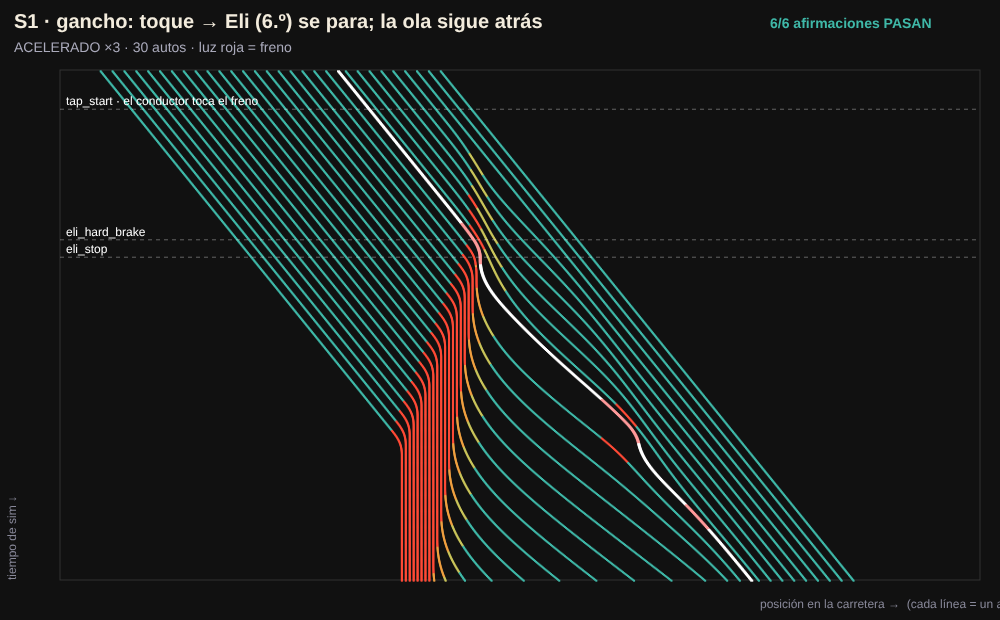
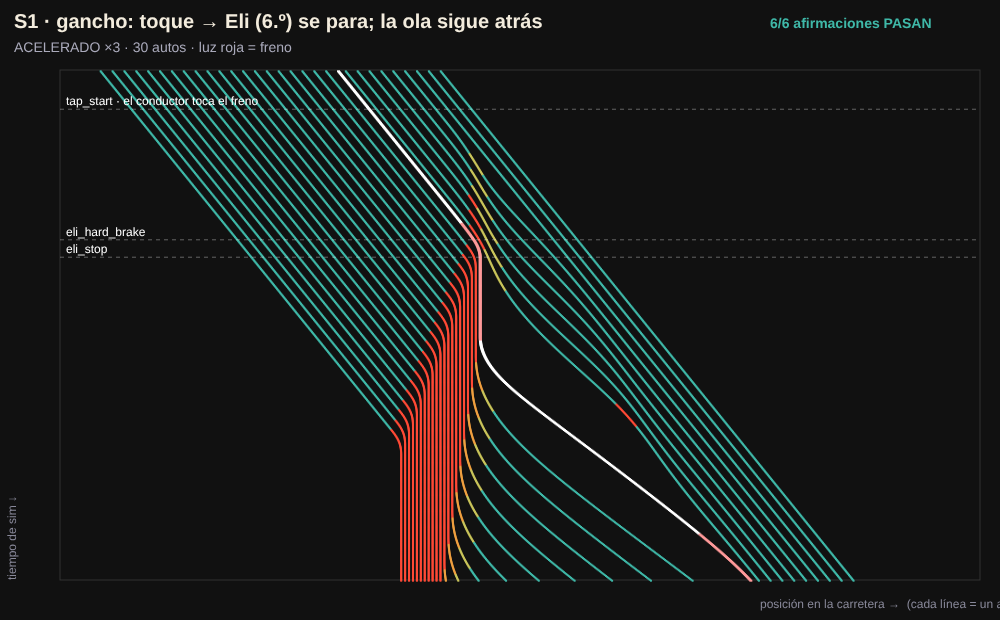
ep001 sim: Eli holds his stop 10 s (stands and yells); previews refreshed
Claude-Session: https://claude.ai/code/session_01Xa8YPWmmU68CUYj3YXfuu9

Changed region(s): [[0.403, 0.429, 0.775, 0.95], [0.558, 0.5823, 0.589, 0.6129]]

diff --git a/newchannel/ep/001/sim/engine.js b/newchannel/ep/001/sim/engine.js
@@ -71,7 +71,7 @@
     const rng = K.rng(p.seed);
     const drv = p.drivers.map(d => Object.assign({}, d));
     const x = Float64Array.from(p.x0), v = Float64Array.from(p.v0init);
-    const acc = new Float64Array(N), noise = new Float64Array(N), panicUntil = new Float64Array(N).fill(-1);
+    const acc = new Float64Array(N), noise = new Float64Array(N), panicUntil = new Float64Array(N).fill(-1), holdUntil = new Float64Array(N).fill(-1);
     // delayed perception: ring buffers of gap and leader speed (per car), sized for the largest tau
     const maxTau = Math.max(0, ...drv.map(d => d.tau || 0), ...p.schedule.map(e => (e.set && e.set.tau) || 0));
     const H = Math.max(1, Math.round(maxTau / dt) + 2);
@@ -139,6 +139,10 @@
           if (d.panicThr) {                                  // over-reaction: once the needed braking passes panicThr, the
             if (panicUntil[i] < t && a < -d.panicThr) panicUntil[i] = t + d.panicHold;   // driver stamps on the brake
             if (panicUntil[i] >= t) a = Math.min(a, -d.panicDecel);                      // for panicHold seconds
+          }
+          if (d.holdAfterStop) {                             // once stopped, stays stopped holdAfterStop seconds
+            if (holdUntil[i] < 0 && v[i] < 0.05 && t > 1) holdUntil[i] = t + d.holdAfterStop;   // (Eli stands up and yells)
+            if (holdUntil[i] > t) a = Math.min(a, -3);
           }
           if (d.noise) {                                     // OU acceleration noise (seeded); tc = correlation time
             const tc = d.noiseTc || 2;

diff --git a/newchannel/ep/001/sim/states.js b/newchannel/ep/001/sim/states.js
@@ -18,8 +18,9 @@
     // road drivers (S1, S3, S4, S11): IDM + 1.0 s reaction time (delayed perception), emergency reflex.
     HUMAN: { kind: 'idm', a: 1.0, b: 2.0, T: 1.0, s0: 2.0, v0: 14, delta: 4, tau: 1.0 },
     // Eli the gap-closer (S1, S19 top): follows at 0.4 s, eager acceleration, and over-reacts: once the braking he
-    // needs passes 0.8 m/s^2 he stamps on the brake at 3 m/s^2 for 2.5 s.
-    ELI_CLOSER: { kind: 'idm', a: 2.0, b: 2.0, T: 0.4, s0: 2.0, v0: 14, delta: 4, tau: 1.0, panicThr: 0.8, panicDecel: 3.0, panicHold: 2.5 },
+    // needs passes 0.8 m/s^2 he stamps on the brake at 3 m/s^2 for 2.5 s; once stopped he stays put 10 s (standing up,
+    // yelling «¡¿Quién fue?!»).
+    ELI_CLOSER: { kind: 'idm', a: 2.0, b: 2.0, T: 0.4, s0: 2.0, v0: 14, delta: 4, tau: 1.0, panicThr: 0.8, panicDecel: 3.0, panicHold: 2.5, holdAfterStop: 10 },
     // Eli / Mila patient (S11, S19 bottom): a soft spring on a 34 m gap (4 s at 30 km/h) (natural period ~13 min, damping 0.9);
     // follows a smoothed leader speed; never brakes harder than 0.25 m/s^2 unless safety demands it.
     PATIENT: { kind: 'spring', gref: 34, kp: 0.008 * 0.008, kd: 1.8 * 0.008, ema: 8, bsoft: 0.25, amax: 0.3, kin: { smin: 2.5, th: 0, ttc: 2.0 } },

diff --git a/newchannel/ep/001/sim/SIM_REPORT.md b/newchannel/ep/001/sim/SIM_REPORT.md
@@ -18,7 +18,7 @@ Comprobación cruzada con el kit: con parámetros homogéneos y sin retraso, `en
 |---|---|---|
 | `RING_JP` (idm) | a=1.5, b=3, T=0.6, s0=1.2, v0=14, delta=4, noise=0.2, noiseTc=2 | S2, S5 |
 | `HUMAN` (idm) | a=1, b=2, T=1, s0=2, v0=14, delta=4, tau=1 | S1, S3, S4, S11, peaje |
-| `ELI_CLOSER` (idm) | a=2, b=2, T=0.4, s0=2, v0=14, delta=4, tau=1, panicThr=0.8, panicDecel=3, panicHold=2.5 | S1, S19 arriba |
+| `ELI_CLOSER` (idm) | a=2, b=2, T=0.4, s0=2, v0=14, delta=4, tau=1, panicThr=0.8, panicDecel=3, panicHold=2.5, holdAfterStop=10 | S1, S19 arriba |
 | `PATIENT` (spring) | gref=34, kp=0.000064, kd=0.014400000000000001, ema=8, bsoft=0.25, amax=0.3; kin smin=2.5 m, ttc=2 s | S11, S19 abajo |
 | `CLOSER_US` (idm) | a=1, b=1.5, T=0.8, s0=2, v0=12, delta=4, noise=0.2, noiseTc=2 | S7-S9 |
 | `FS` (fs) | Usrc=avgAll, Uwin=60, kp=0.6, amax=1, bmax=3; dx0=4.5/5.25/6 m, d=1.5/1/0.5 | S7, S8, S5 (40) |
@@ -52,7 +52,7 @@ Valores físicamente razonables: a 0,5-2 m/s², b 1,5-3 m/s², T 0,4-1,2 s, s0 1
 
 ## S1 · Carretera dorada: un toque, Eli (6.º detrás) se queda quieto
 
-- Beats: 1-4, 23 (referencia), Short · ACELERADO ×3 · simT0 = 7 s · semilla 1 · 30 autos · carril abierto · dt 0.02 s · cálculo 244 ms
+- Beats: 1-4, 23 (referencia), Short · ACELERADO ×3 · simT0 = 7 s · semilla 1 · 30 autos · carril abierto · dt 0.02 s · cálculo 158 ms
 - Roles: `{"tapper":26,"eli":20,"eliLeader":21,"behindEli":"[20 autos]","frontCar":29,"carsBehindTapper":[25,24,23,22,21,20]}`
 
 | | Afirmación (guion) | Medido en el sim | Objetivo | |
@@ -72,12 +72,12 @@ Eventos clave (t = segundos de video, t_sim = segundos de simulación):
 - `eli_brake_onset` t = 6.347 s (t_sim 26.04 s) · auto 20 · la ola llega a Eli
 - `eli_hard_brake` t = 6.547 s (t_sim 26.64 s) · auto 20
 - `eli_stop` t = 7.287 s (t_sim 28.86 s) · auto 20
-- `eli_restart` t = 7.467 s (t_sim 29.4 s) · auto 20
-- inicios de frenado (24): #3@4.747s, #4@5.347s, #5@5.987s, #6@6.347s, #7@6.747s, #8@7.147s, #9@7.527s, #10@7.967s, #11@8.387s, #12@8.787s, #13@9.207s, #14@9.627s, #15@10.047s, #16@10.467s …
+- `eli_restart` t = 10.727 s (t_sim 39.18 s) · auto 20
+- inicios de frenado (24): #3@4.747s, #4@5.347s, #5@5.987s, #6@6.347s, #7@6.747s, #8@7.147s, #9@7.527s, #10@7.927s, #11@8.347s, #12@8.767s, #13@9.167s, #14@9.587s, #15@10.007s, #16@10.427s …
 
 ## S2 · Anillo 2008: 22 autos en 230 m, sin toque
 
-- Beats: 6-8, Short · ACELERADO ×10 · simT0 = 0 s · semilla 13 · 22 autos · anillo 230 m · periódico · dt 0.05 s · cálculo 153 ms
+- Beats: 6-8, Short · ACELERADO ×10 · simT0 = 0 s · semilla 13 · 22 autos · anillo 230 m · periódico · dt 0.05 s · cálculo 96 ms
 - Roles: `{"L":230,"marked":3}`
 
 | | Afirmación (guion) | Medido en el sim | Objetivo | |
@@ -100,7 +100,7 @@ Eventos clave (t = segundos de video, t_sim = segundos de simulación):
 
 ## S3 · Fila recta (nublado): el auto 1 frena, el 10 (Eli) se para
 
-- Beats: 9 (y 19 de fondo) · ACELERADO ×2 · simT0 = 3 s · semilla 1 · 12 autos · carril abierto · dt 0.02 s · cálculo 85 ms
+- Beats: 9 (y 19 de fondo) · ACELERADO ×2 · simT0 = 3 s · semilla 1 · 12 autos · carril abierto · dt 0.02 s · cálculo 80 ms
 - Roles: `{"tapper":11,"eli":2,"behindEli":[1,0]}`
 
 | | Afirmación (guion) | Medido en el sim | Objetivo | |
@@ -120,7 +120,7 @@ Eventos clave (t = segundos de video, t_sim = segundos de simulación):
 
 ## S3B_ELI · Beat 19 arriba: Eli maneja (se pega, frena hasta parar, todos detrás frenan)
 
-- Beats: 19 · ACELERADO ×2 · simT0 = 8 s · semilla 1 · 15 autos · carril abierto · dt 0.02 s · cálculo 121 ms
+- Beats: 19 · ACELERADO ×2 · simT0 = 8 s · semilla 1 · 15 autos · carril abierto · dt 0.02 s · cálculo 74 ms
 - Roles: `{"tapper":11,"eli":5,"eliLeader":6,"behindEli":[4,3,2,1,0],"frontCar":14,"carsBehindTapper":[10,9,8,7,6,5]}`
 
 | | Afirmación (guion) | Medido en el sim | Objetivo | |
@@ -136,12 +136,12 @@ Eventos clave (t = segundos de video, t_sim = segundos de simulación):
 - `eli_brake_onset` t = 9.02 s (t_sim 26.04 s) · auto 5 · Eli frena
 - `eli_hard_brake` t = 9.32 s (t_sim 26.64 s) · auto 5
 - `eli_stop` t = 10.43 s (t_sim 28.86 s) · auto 5
-- `eli_restart` t = 10.7 s (t_sim 29.4 s) · auto 5
-- inicios de frenado (9): #3@6.62s, #4@7.52s, #5@8.48s, #6@9.02s, #7@9.62s, #8@10.22s, #9@10.79s, #10@11.45s, #11@12.08s
+- `eli_restart` t = 15.59 s (t_sim 39.18 s) · auto 5
+- inicios de frenado (9): #3@6.62s, #4@7.52s, #5@8.48s, #6@9.02s, #7@9.62s, #8@10.22s, #9@10.79s, #10@11.39s, #11@12.02s
 
 ## S3B_MILA · Beat 19 abajo: Mila maneja (llega tarde, pasa sin detenerse, detrás nadie frena)
 
-- Beats: 19 · ACELERADO ×2 · simT0 = 8 s · semilla 1 · 15 autos · carril abierto · dt 0.02 s · cálculo 108 ms
+- Beats: 19 · ACELERADO ×2 · simT0 = 8 s · semilla 1 · 15 autos · carril abierto · dt 0.02 s · cálculo 81 ms
 - Roles: `{"tapper":11,"eli":5,"eliLeader":6,"behindEli":[4,3,2,1,0],"frontCar":14,"carsBehindTapper":[10,9,8,7,6,5],"mila":5}`
 
 | | Afirmación (guion) | Medido en el sim | Objetivo | |
@@ -159,7 +159,7 @@ Eventos clave (t = segundos de video, t_sim = segundos de simulación):
 
 ## S4 · Inestabilidad de cadena: la misma joroba, cadena estable (arriba) vs inestable (abajo)
 
-- Beats: 10 · ACELERADO ×2 · simT0 = 3 s · semilla 1 · 12 autos · carril abierto · dt 0.02 s · cálculo 173 ms
+- Beats: 10 · ACELERADO ×2 · simT0 = 3 s · semilla 1 · 12 autos · carril abierto · dt 0.02 s · cálculo 110 ms
 
 | | Afirmación (guion) | Medido en el sim | Objetivo | |
 |---|---|---|---|---|
@@ -168,7 +168,7 @@ Eventos clave (t = segundos de video, t_sim = segundos de simulación):
 
 ## S5_25 · Domo 314 m, 25 autos: los titubeos se apagan
 
-- Beats: 12 · ACELERADO ×10 · simT0 = 0 s · semilla 33 · 25 autos · anillo 314 m · periódico · dt 0.05 s · cálculo 215 ms
+- Beats: 12 · ACELERADO ×10 · simT0 = 0 s · semilla 33 · 25 autos · anillo 314 m · periódico · dt 0.05 s · cálculo 138 ms
 - Roles: `{"L":314}`
 
 | | Afirmación (guion) | Medido en el sim | Objetivo | |
@@ -178,7 +178,7 @@ Eventos clave (t = segundos de video, t_sim = segundos de simulación):
 
 ## S5_28 · Domo 314 m, 28 autos (los mismos 25 + 3, Eli uno de ellos): embotellamiento
 
-- Beats: 12 · ACELERADO ×10 · simT0 = 0 s · semilla 33 · 28 autos · anillo 314 m · periódico · dt 0.05 s · cálculo 180 ms
+- Beats: 12 · ACELERADO ×10 · simT0 = 0 s · semilla 33 · 28 autos · anillo 314 m · periódico · dt 0.05 s · cálculo 116 ms
 - Roles: `{"L":314,"added":[9,18,27],"eli":18}`
 
 | | Afirmación (guion) | Medido en el sim | Objetivo | |
@@ -192,7 +192,7 @@ Eventos clave (t = segundos de video, t_sim = segundos de simulación):
 
 ## S5_40 · Domo sobrellenado: 40 autos, con y sin auto paciente (no es magia)
 
-- Beats: 19 · ACELERADO ×10 · simT0 = 0 s · semilla 33 · 40 autos · anillo 314 m · periódico · dt 0.05 s · cálculo 537 ms
+- Beats: 19 · ACELERADO ×10 · simT0 = 0 s · semilla 33 · 40 autos · anillo 314 m · periódico · dt 0.05 s · cálculo 429 ms
 - Roles: `{"L":314,"av":0}`
 
 | | Afirmación (guion) | Medido en el sim | Objetivo | |
@@ -205,7 +205,7 @@ Eventos clave (t = segundos de video, t_sim = segundos de simulación):
 
 ## S6 · Colina de noche: una ola viaja más de 10 km hacia atrás
 
-- Beats: 13, Short · ACELERADO ×120 · simT0 = -180 s · semilla 1 · 1778 autos · anillo 40000 m · periódico · dt 0.1 s · cálculo 14704 ms
+- Beats: 13, Short · ACELERADO ×120 · simT0 = -180 s · semilla 1 · 1778 autos · anillo 40000 m · periódico · dt 0.1 s · cálculo 13435 ms
 - Roles: `{"L":40000,"tapCar":1334,"tapX":30011.24859392576}`
 
 | | Afirmación (guion) | Medido en el sim | Objetivo | |
@@ -224,7 +224,7 @@ Eventos clave (t = segundos de video, t_sim = segundos de simulación):
 
 ## S7 · Anillo EE. UU.: 20 cierra-huecos + 1 auto paciente (FollowerStopper) que se activa con la ola ya formada
 
-- Beats: 14-16, Short · ACELERADO ×4 · simT0 = 240 s · semilla 14 · 21 autos · anillo 260 m · periódico · dt 0.05 s · cálculo 286 ms
+- Beats: 14-16, Short · ACELERADO ×4 · simT0 = 240 s · semilla 14 · 21 autos · anillo 260 m · periódico · dt 0.05 s · cálculo 232 ms
 - Roles: `{"L":260,"av":0}`
 
 | | Afirmación (guion) | Medido en el sim | Objetivo | |
@@ -246,7 +246,7 @@ Eventos clave (t = segundos de video, t_sim = segundos de simulación):
 
 ## S8 · La perilla: el auto paciente un poquito más rápido que el promedio (+7 %): la ola vuelve; al bajarla, se apaga
 
-- Beats: 17 · ACELERADO ×4 · simT0 = 560 s · semilla 14 · 21 autos · anillo 260 m · periódico · dt 0.05 s · cálculo 410 ms
+- Beats: 17 · ACELERADO ×4 · simT0 = 560 s · semilla 14 · 21 autos · anillo 260 m · periódico · dt 0.05 s · cálculo 357 ms
 - Roles: `{"L":260,"av":0}`
 
 | | Afirmación (guion) | Medido en el sim | Objetivo | |
@@ -264,7 +264,7 @@ Eventos clave (t = segundos de video, t_sim = segundos de simulación):
 
 ## S9 · Mila al volante: una persona paciente con un solo número (promedio de la vuelta anterior)
 
-- Beats: 18 · ACELERADO ×4 · simT0 = 240 s · semilla 14 · 21 autos · anillo 260 m · periódico · dt 0.05 s · cálculo 243 ms
+- Beats: 18 · ACELERADO ×4 · simT0 = 240 s · semilla 14 · 21 autos · anillo 260 m · periódico · dt 0.05 s · cálculo 224 ms
 - Roles: `{"L":260,"av":0,"mila":0}`
 
 | | Afirmación (guion) | Medido en el sim | Objetivo | |
@@ -281,7 +281,7 @@ Eventos clave (t = segundos de video, t_sim = segundos de simulación):
 
 ## S10 · Autopista de 4 carriles (1 simulado): la ola pasa 2 activos → 4 apagados → varios activos
 
-- Beats: 20-21 · ACELERADO ×6 · simT0 = 8 s · semilla 1 · 260 autos · carril abierto · dt 0.05 s · cálculo 569 ms
+- Beats: 20-21 · ACELERADO ×6 · simT0 = 8 s · semilla 1 · 260 autos · carril abierto · dt 0.05 s · cálculo 586 ms
 - Roles: `{"tap":257,"active":[227,221,132,130,128,126,124],"inactive":[187,181,175,169],"act1":[227,221],"act2":[132,130,128,126,124],"front":259,"penetration":0.04230769230769231}`
 
 | | Afirmación (guion) | Medido en el sim | Objetivo | |
@@ -296,7 +296,7 @@ Eventos clave (t = segundos de video, t_sim = segundos de simulación):
 
 ## S11 · Carretera dorada: el mismo toque, Eli deja el espacio y la ola muere
 
-- Beats: 22-23, Short · ACELERADO ×3 · simT0 = 7 s · semilla 1 · 30 autos · carril abierto · dt 0.02 s · cálculo 105 ms
+- Beats: 22-23, Short · ACELERADO ×3 · simT0 = 7 s · semilla 1 · 30 autos · carril abierto · dt 0.02 s · cálculo 85 ms
 - Roles: `{"tapper":26,"eli":20,"eliLeader":21,"behindEli":"[20 autos]","frontCar":29,"carsBehindTapper":[25,24,23,22,21,20]}`
 
 | | Afirmación (guion) | Medido en el sim | Objetivo | |
@@ -319,7 +319,7 @@ Eventos clave (t = segundos de video, t_sim = segundos de simulación):
 
 ## TOLL · Peaje nublado: llegan más autos de los que la caseta atiende; el hueco de Eli no arregla nada (y se le meten)
 
-- Beats: 19 · ACELERADO ×4 · simT0 = 0 s · semilla 21 · 60 autos · carril abierto · dt 0.05 s · cálculo 489 ms
+- Beats: 19 · ACELERADO ×4 · simT0 = 0 s · semilla 21 · 60 autos · carril abierto · dt 0.05 s · cálculo 380 ms
 - Roles: `{"eli":12,"booth":25}`
 
 | | Afirmación (guion) | Medido en el sim | Objetivo | |
@@ -333,7 +333,7 @@ Eventos clave (t = segundos de video, t_sim = segundos de simulación):
 
 ## SH · Short 9:16: recortes de S1, S2, S6, S7, S11 con sus sellos ACELERADO
 
-- Beats: Short · ACELERADO ×1 · simT0 = 0 s · semilla — · 0 autos · dt — s · cálculo 2 ms
+- Beats: Short · ACELERADO ×1 · simT0 = 0 s · semilla — · 0 autos · dt — s · cálculo 3 ms
 
 | | Afirmación (guion) | Medido en el sim | Objetivo | |
 |---|---|---|---|---|
